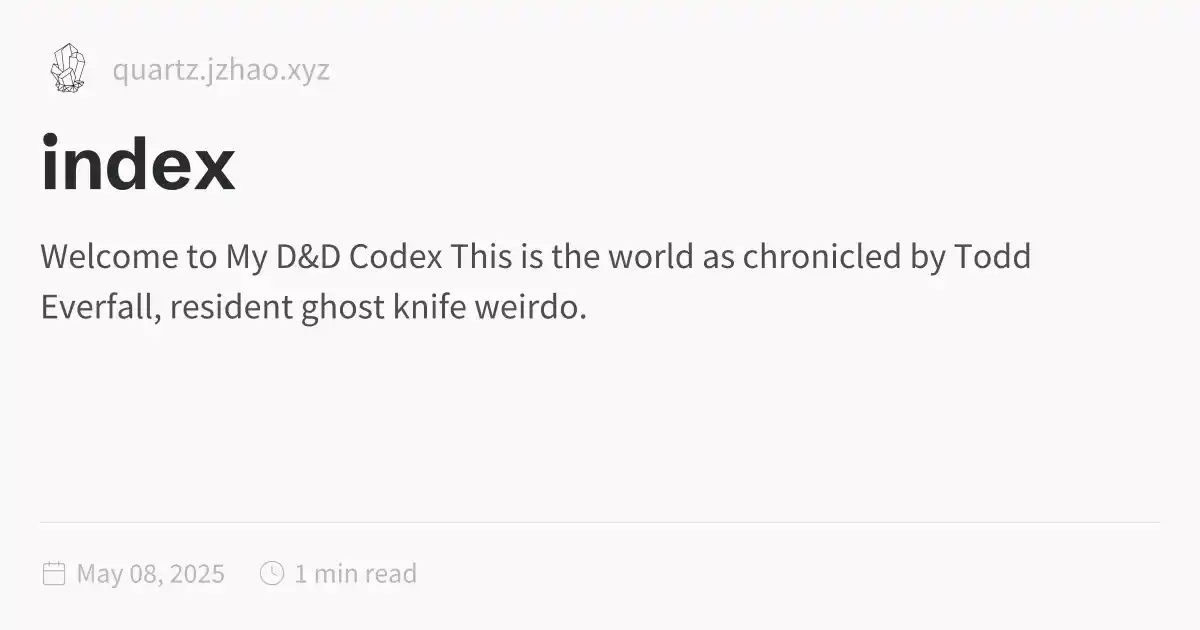
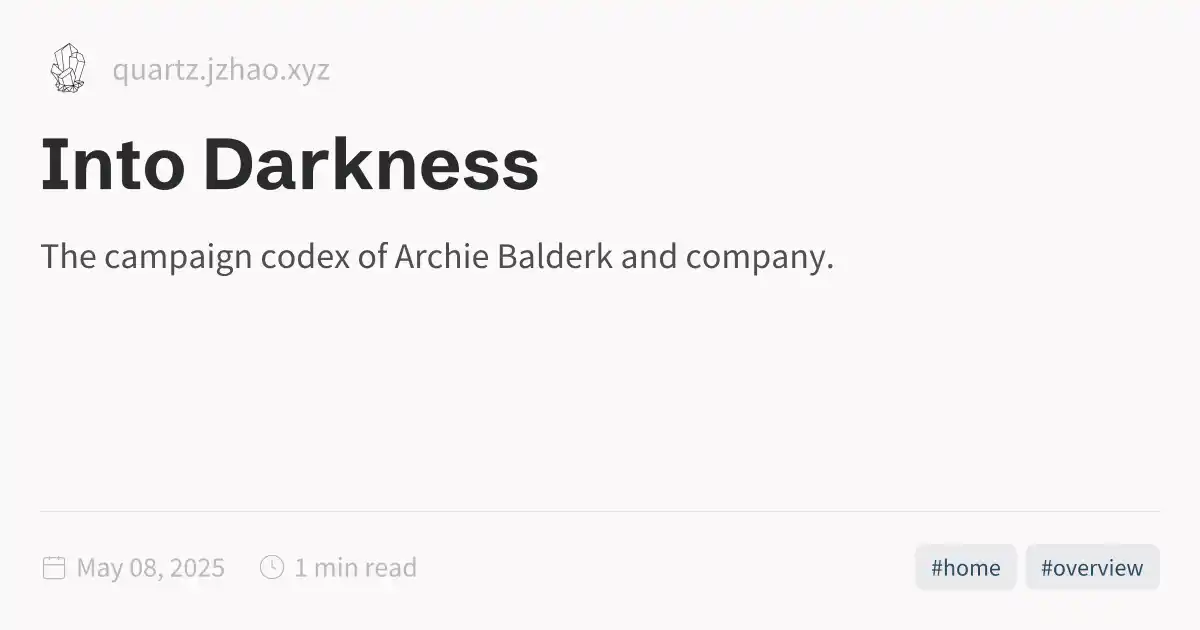
Enable custom CSS theme

diff --git a/public/index.html b/public/index.html
@@ -1,5 +1,5 @@
 <!DOCTYPE html>
-<html lang="en"><head><title>index</title><meta charset="utf-8"/><link rel="preconnect" href="https://fonts.googleapis.com"/><link rel="preconnect" href="https://fonts.gstatic.com"/><link rel="stylesheet" href="https://fonts.googleapis.com/css2?family=Schibsted Grotesk:wght@400;700&amp;family=Source Sans Pro:ital,wght@0,400;0,600;1,400;1,600&amp;family=IBM Plex Mono:wght@400;600&amp;display=swap"/><link rel="preconnect" href="https://cdnjs.cloudflare.com" crossorigin="anonymous"/><meta name="viewport" content="width=device-width, initial-scale=1.0"/><meta name="og:site_name" content="Quartz 4"/><meta property="og:title" content="index"/><meta property="og:type" content="website"/><meta name="twitter:card" content="summary_large_image"/><meta name="twitter:title" content="index"/><meta name="twitter:description" content="Welcome to My D&amp;D Codex This is the world as chronicled by Todd Everfall, resident ghost knife weirdo."/><meta property="og:description" content="Welcome to My D&amp;D Codex This is the world as chronicled by Todd Everfall, resident ghost knife weirdo."/><meta property="og:image:alt" content="Welcome to My D&amp;D Codex This is the world as chronicled by Todd Everfall, resident ghost knife weirdo."/><meta property="twitter:domain" content="quartz.jzhao.xyz"/><meta property="og:url" content="https://quartz.jzhao.xyz/index"/><meta property="twitter:url" content="https://quartz.jzhao.xyz/index"/><link rel="icon" href="./static/icon.png"/><meta name="description" content="Welcome to My D&amp;D Codex This is the world as chronicled by Todd Everfall, resident ghost knife weirdo."/><meta name="generator" content="Quartz"/><link href="./index.css" rel="stylesheet" type="text/css" spa-preserve/><style>.expand-button {
+<html lang="en"><head><title>Into Darkness</title><meta charset="utf-8"/><link rel="preconnect" href="https://fonts.googleapis.com"/><link rel="preconnect" href="https://fonts.gstatic.com"/><link rel="stylesheet" href="https://fonts.googleapis.com/css2?family=Schibsted Grotesk:wght@400;700&amp;family=Source Sans Pro:ital,wght@0,400;0,600;1,400;1,600&amp;family=IBM Plex Mono:wght@400;600&amp;display=swap"/><link rel="preconnect" href="https://cdnjs.cloudflare.com" crossorigin="anonymous"/><meta name="viewport" content="width=device-width, initial-scale=1.0"/><meta name="og:site_name" content="Quartz 4"/><meta property="og:title" content="Into Darkness"/><meta property="og:type" content="website"/><meta name="twitter:card" content="summary_large_image"/><meta name="twitter:title" content="Into Darkness"/><meta name="twitter:description" content="The campaign codex of Archie Balderk and company."/><meta property="og:description" content="The campaign codex of Archie Balderk and company."/><meta property="og:image:alt" content="The campaign codex of Archie Balderk and company."/><meta property="twitter:domain" content="quartz.jzhao.xyz"/><meta property="og:url" content="https://quartz.jzhao.xyz/index"/><meta property="twitter:url" content="https://quartz.jzhao.xyz/index"/><link rel="icon" href="./static/icon.png"/><meta name="description" content="The campaign codex of Archie Balderk and company."/><meta name="generator" content="Quartz"/><link href="./index.css" rel="stylesheet" type="text/css" spa-preserve/><style>.expand-button {
   position: absolute;
   display: flex;
   float: right;
@@ -116,8 +116,23 @@ pre:hover > .expand-button {
   padding: 0 12px;
   font-size: 14px;
 }
[1 lines of base64/hex data omitted]
-<p>This is the world as chronicled by Todd Everfall, resident ghost knife weirdo.</p></article><hr/><div class="page-footer"></div></div><div class="right sidebar"><div class="graph"><h3>Graph View</h3><div class="graph-outer"><div class="graph-container" data-cfg="{&quot;drag&quot;:true,&quot;zoom&quot;:true,&quot;depth&quot;:1,&quot;scale&quot;:1.1,&quot;repelForce&quot;:0.5,&quot;centerForce&quot;:0.3,&quot;linkDistance&quot;:30,&quot;fontSize&quot;:0.6,&quot;opacityScale&quot;:1,&quot;showTags&quot;:true,&quot;removeTags&quot;:[],&quot;focusOnHover&quot;:false,&quot;enableRadial&quot;:false}"></div><button class="global-graph-icon" aria-label="Global Graph"><svg version="1.1" xmlns="http://www.w3.org/2000/svg" xmlns:xlink="http://www.w3.org/1999/xlink" x="0px" y="0px" viewBox="0 0 55 55" fill="currentColor" xml:space="preserve"><path d="M49,0c-3.309,0-6,2.691-6,6c0,1.035,0.263,2.009,0.726,2.86l-9.829,9.829C32.542,17.634,30.846,17,29,17
[1 lines of base64/hex data omitted]
+<blockquote>
+<p><em>“The gods are silent. The devils are not.”</em></p>
+</blockquote>
+<p>Welcome to the living codex of our campaign. This site is a growing archive of the realms we’ve explored, the horrors we’ve survived, and the ancient powers that stir beneath our feet.</p>
+<hr/>
+<h2 id="-explore-the-codex">📖 Explore the Codex<a role="anchor" aria-hidden="true" tabindex="-1" data-no-popover="true" href="#-explore-the-codex" class="internal"><svg width="18" height="18" viewBox="0 0 24 24" fill="none" stroke="currentColor" stroke-width="2" stroke-linecap="round" stroke-linejoin="round"><path d="M10 13a5 5 0 0 0 7.54.54l3-3a5 5 0 0 0-7.07-7.07l-1.72 1.71"></path><path d="M14 11a5 5 0 0 0-7.54-.54l-3 3a5 5 0 0 0 7.07 7.07l1.71-1.71"></path></svg></a></h2>
+<ul>
+<li><a href="././lore/" class="internal alias" data-slug="lore/index">🧠 Lore</a></li>
+<li><a href="././factions/" class="internal alias" data-slug="factions/index">⚔ Factions</a></li>
+<li><a href="././locations/" class="internal alias" data-slug="locations/index">📍 Locations</a></li>
+<li><a href="././deities/" class="internal alias" data-slug="deities/index">⛪ Deities</a></li>
+<li><a href="././characters/" class="internal alias" data-slug="characters/index">🧰 characters</a></li>
+<li><a href="././limericks/" class="internal alias" data-slug="limericks/index">🎭 Bardic Limericks</a></li>
+<li><a href="././session-logs/" class="internal alias" data-slug="session-logs/index">📜 Session Logs</a></li>
+<li><a href="././meta/" class="internal alias" data-slug="meta/index"> Reference</a></li>
+</ul></article><hr/><div class="page-footer"></div></div><div class="right sidebar"><div class="graph"><h3>Graph View</h3><div class="graph-outer"><div class="graph-container" data-cfg="{&quot;drag&quot;:true,&quot;zoom&quot;:true,&quot;depth&quot;:1,&quot;scale&quot;:1.1,&quot;repelForce&quot;:0.5,&quot;centerForce&quot;:0.3,&quot;linkDistance&quot;:30,&quot;fontSize&quot;:0.6,&quot;opacityScale&quot;:1,&quot;showTags&quot;:true,&quot;removeTags&quot;:[],&quot;focusOnHover&quot;:false,&quot;enableRadial&quot;:false}"></div><button class="global-graph-icon" aria-label="Global Graph"><svg version="1.1" xmlns="http://www.w3.org/2000/svg" xmlns:xlink="http://www.w3.org/1999/xlink" x="0px" y="0px" viewBox="0 0 55 55" fill="currentColor" xml:space="preserve"><path d="M49,0c-3.309,0-6,2.691-6,6c0,1.035,0.263,2.009,0.726,2.86l-9.829,9.829C32.542,17.634,30.846,17,29,17
                 s-3.542,0.634-4.898,1.688l-7.669-7.669C16.785,10.424,17,9.74,17,9c0-2.206-1.794-4-4-4S9,6.794,9,9s1.794,4,4,4
                 c0.74,0,1.424-0.215,2.019-0.567l7.669,7.669C21.634,21.458,21,23.154,21,25s0.634,3.542,1.688,4.897L10.024,42.562
                 C8.958,41.595,7.549,41,6,41c-3.309,0-6,2.691-6,6s2.691,6,6,6s6-2.691,6-6c0-1.035-0.263-2.009-0.726-2.86l12.829-12.829
@@ -127,6 +142,6 @@ pre:hover > .expand-button {
                 C46.042,11.405,47.451,12,49,12c3.309,0,6-2.691,6-6S52.309,0,49,0z M11,9c0-1.103,0.897-2,2-2s2,0.897,2,2s-0.897,2-2,2
                 S11,10.103,11,9z M6,51c-2.206,0-4-1.794-4-4s1.794-4,4-4s4,1.794,4,4S8.206,51,6,51z M33,49c0,2.206-1.794,4-4,4s-4-1.794-4-4
                 s1.794-4,4-4S33,46.794,33,49z M29,31c-3.309,0-6-2.691-6-6s2.691-6,6-6s6,2.691,6,6S32.309,31,29,31z M47,41c0,1.103-0.897,2-2,2
-                s-2-0.897-2-2s0.897-2,2-2S47,39.897,47,41z M49,10c-2.206,0-4-1.794-4-4s1.794-4,4-4s4,1.794,4,4S51.206,10,49,10z"></path></svg></button></div><div class="global-graph-outer"><div class="global-graph-container" data-cfg="{&quot;drag&quot;:true,&quot;zoom&quot;:true,&quot;depth&quot;:-1,&quot;scale&quot;:0.9,&quot;repelForce&quot;:0.5,&quot;centerForce&quot;:0.2,&quot;linkDistance&quot;:30,&quot;fontSize&quot;:0.6,&quot;opacityScale&quot;:1,&quot;showTags&quot;:true,&quot;removeTags&quot;:[],&quot;focusOnHover&quot;:true,&quot;enableRadial&quot;:true}"></div></div></div></div><footer class><p>Created with <a href="https://quartz.jzhao.xyz/">Quartz v4.5.0</a> © 2025</p><ul><li><a href="https://github.com/jackyzha0/quartz">GitHub</a></li><li><a href="https://discord.gg/cRFFHYye7t">Discord Community</a></li></ul></footer></div></div></body><script type="application/javascript">function n(){let t=this.parentElement;t.classList.toggle("is-collapsed");let e=t.getElementsByClassName("callout-content")[0];if(!e)return;let l=t.classList.contains("is-collapsed");e.style.gridTemplateRows=l?"0fr":"1fr"}function c(){let t=document.getElementsByClassName("callout is-collapsible");for(let e of t){let l=e.getElementsByClassName("callout-title")[0],s=e.getElementsByClassName("callout-content")[0];if(!l||!s)continue;l.addEventListener("click",n),window.addCleanup(()=>l.removeEventListener("click",n));let o=e.classList.contains("is-collapsed");s.style.gridTemplateRows=o?"0fr":"1fr"}}document.addEventListener("nav",c);
+                s-2-0.897-2-2s0.897-2,2-2S47,39.897,47,41z M49,10c-2.206,0-4-1.794-4-4s1.794-4,4-4s4,1.794,4,4S51.206,10,49,10z"></path></svg></button></div><div class="global-graph-outer"><div class="global-graph-container" data-cfg="{&quot;drag&quot;:true,&quot;zoom&quot;:true,&quot;depth&quot;:-1,&quot;scale&quot;:0.9,&quot;repelForce&quot;:0.5,&quot;centerForce&quot;:0.2,&quot;linkDistance&quot;:30,&quot;fontSize&quot;:0.6,&quot;opacityScale&quot;:1,&quot;showTags&quot;:true,&quot;removeTags&quot;:[],&quot;focusOnHover&quot;:true,&quot;enableRadial&quot;:true}"></div></div></div><div class="toc desktop-only"><button type="button" class="toc-header" aria-controls="toc-content" aria-expanded="true"><h3>Table of Contents</h3><svg xmlns="http://www.w3.org/2000/svg" width="24" height="24" viewBox="0 0 24 24" fill="none" stroke="currentColor" stroke-width="2" stroke-linecap="round" stroke-linejoin="round" class="fold"><polyline points="6 9 12 15 18 9"></polyline></svg></button><ul class="toc-content overflow" id="list-1"><li class="depth-0"><a href="#into-darkness" data-for="into-darkness">Into Darkness</a></li><li class="depth-1"><a href="#-explore-the-codex" data-for="-explore-the-codex">📖 Explore the Codex</a></li><li class="overflow-end"></li></ul></div></div><footer class><p>Created with <a href="https://quartz.jzhao.xyz/">Quartz v4.5.0</a> © 2025</p><ul><li><a href="https://github.com/jackyzha0/quartz">GitHub</a></li><li><a href="https://discord.gg/cRFFHYye7t">Discord Community</a></li></ul></footer></div></div></body><script type="application/javascript">function n(){let t=this.parentElement;t.classList.toggle("is-collapsed");let e=t.getElementsByClassName("callout-content")[0];if(!e)return;let l=t.classList.contains("is-collapsed");e.style.gridTemplateRows=l?"0fr":"1fr"}function c(){let t=document.getElementsByClassName("callout is-collapsible");for(let e of t){let l=e.getElementsByClassName("callout-title")[0],s=e.getElementsByClassName("callout-content")[0];if(!l||!s)continue;l.addEventListener("click",n),window.addCleanup(()=>l.removeEventListener("click",n));let o=e.classList.contains("is-collapsed");s.style.gridTemplateRows=o?"0fr":"1fr"}}document.addEventListener("nav",c);
 </script><script type="module">function f(i,e){if(!i)return;function r(o){o.target===this&&(o.preventDefault(),o.stopPropagation(),e())}function t(o){o.key.startsWith("Esc")&&(o.preventDefault(),e())}i?.addEventListener("click",r),window.addCleanup(()=>i?.removeEventListener("click",r)),document.addEventListener("keydown",t),window.addCleanup(()=>document.removeEventListener("keydown",t))}function y(i){for(;i.firstChild;)i.removeChild(i.firstChild)}var h=class{constructor(e,r){this.container=e;this.content=r;this.setupEventListeners(),this.setupNavigationControls(),this.resetTransform()}isDragging=!1;startPan={x:0,y:0};currentPan={x:0,y:0};scale=1;MIN_SCALE=.5;MAX_SCALE=3;cleanups=[];setupEventListeners(){let e=this.onMouseDown.bind(this),r=this.onMouseMove.bind(this),t=this.onMouseUp.bind(this),o=this.resetTransform.bind(this);this.container.addEventListener("mousedown",e),document.addEventListener("mousemove",r),document.addEventListener("mouseup",t),window.addEventListener("resize",o),this.cleanups.push(()=>this.container.removeEventListener("mousedown",e),()=>document.removeEventListener("mousemove",r),()=>document.removeEventListener("mouseup",t),()=>window.removeEventListener("resize",o))}cleanup(){for(let e of this.cleanups)e()}setupNavigationControls(){let e=document.createElement("div");e.className="mermaid-controls";let r=this.createButton("+",()=>this.zoom(.1)),t=this.createButton("-",()=>this.zoom(-.1)),o=this.createButton("Reset",()=>this.resetTransform());e.appendChild(t),e.appendChild(o),e.appendChild(r),this.container.appendChild(e)}createButton(e,r){let t=document.createElement("button");return t.textContent=e,t.className="mermaid-control-button",t.addEventListener("click",r),window.addCleanup(()=>t.removeEventListener("click",r)),t}onMouseDown(e){e.button===0&&(this.isDragging=!0,this.startPan={x:e.clientX-this.currentPan.x,y:e.clientY-this.currentPan.y},this.container.style.cursor="grabbing")}onMouseMove(e){this.isDragging&&(e.preventDefault(),this.currentPan={x:e.clientX-this.startPan.x,y:e.clientY-this.startPan.y},this.updateTransform())}onMouseUp(){this.isDragging=!1,this.container.style.cursor="grab"}zoom(e){let r=Math.min(Math.max(this.scale+e,this.MIN_SCALE),this.MAX_SCALE),t=this.content.getBoundingClientRect(),o=t.width/2,n=t.height/2,c=r-this.scale;this.currentPan.x-=o*c,this.currentPan.y-=n*c,this.scale=r,this.updateTransform()}updateTransform(){this.content.style.transform=`translate(${this.currentPan.x}px, ${this.currentPan.y}px) scale(${this.scale})`}resetTransform(){this.scale=1;let e=this.content.querySelector("svg");this.currentPan={x:e.getBoundingClientRect().width/2,y:e.getBoundingClientRect().height/2},this.updateTransform()}},C=["--secondary","--tertiary","--gray","--light","--lightgray","--highlight","--dark","--darkgray","--codeFont"],E;document.addEventListener("nav",async()=>{let e=document.querySelector(".center").querySelectorAll("code.mermaid");if(e.length===0)return;E||=await import("https://cdnjs.cloudflare.com/ajax/libs/mermaid/11.4.0/mermaid.esm.min.mjs");let r=E.default,t=new WeakMap;for(let n of e)t.set(n,n.innerText);async function o(){for(let s of e){s.removeAttribute("data-processed");let a=t.get(s);a&&(s.innerHTML=a)}let n=C.reduce((s,a)=>(s[a]=window.getComputedStyle(document.documentElement).getPropertyValue(a),s),{}),c=document.documentElement.getAttribute("saved-theme")==="dark";r.initialize({startOnLoad:!1,securityLevel:"loose",theme:c?"dark":"base",themeVariables:{fontFamily:n["--codeFont"],primaryColor:n["--light"],primaryTextColor:n["--darkgray"],primaryBorderColor:n["--tertiary"],lineColor:n["--darkgray"],secondaryColor:n["--secondary"],tertiaryColor:n["--tertiary"],clusterBkg:n["--light"],edgeLabelBackground:n["--highlight"]}}),await r.run({nodes:e})}await o(),document.addEventListener("themechange",o),window.addCleanup(()=>document.removeEventListener("themechange",o));for(let n=0;n<e.length;n++){let v=function(){let g=l.querySelector("#mermaid-space"),m=l.querySelector(".mermaid-content");if(!m)return;y(m);let w=c.querySelector("svg").cloneNode(!0);m.appendChild(w),l.classList.add("active"),g.style.cursor="grab",u=new h(g,m)},M=function(){l.classList.remove("active"),u?.cleanup(),u=null},c=e[n],s=c.parentElement,a=s.querySelector(".clipboard-button"),d=s.querySelector(".expand-button"),p=window.getComputedStyle(a),L=a.offsetWidth+parseFloat(p.marginLeft||"0")+parseFloat(p.marginRight||"0");d.style.right=`calc(${L}px + 0.3rem)`,s.prepend(d);let l=s.querySelector("#mermaid-container");if(!l)return;let u=null;d.addEventListener("click",v),f(l,M),window.addCleanup(()=>{u?.cleanup(),d.removeEventListener("click",v)})}});
 </script><script src="https://cdn.jsdelivr.net/npm/katex@0.16.11/dist/contrib/copy-tex.min.js" type="application/javascript"></script><script src="./postscript.js" type="module"></script></html>

diff --git a/public/tags/index.html b/public/tags/index.html
@@ -116,6 +116,6 @@ pre:hover > .expand-button {
   padding: 0 12px;
   font-size: 14px;
 }
[2 lines of base64/hex data omitted]
 </script><script type="module">function f(i,e){if(!i)return;function r(o){o.target===this&&(o.preventDefault(),o.stopPropagation(),e())}function t(o){o.key.startsWith("Esc")&&(o.preventDefault(),e())}i?.addEventListener("click",r),window.addCleanup(()=>i?.removeEventListener("click",r)),document.addEventListener("keydown",t),window.addCleanup(()=>document.removeEventListener("keydown",t))}function y(i){for(;i.firstChild;)i.removeChild(i.firstChild)}var h=class{constructor(e,r){this.container=e;this.content=r;this.setupEventListeners(),this.setupNavigationControls(),this.resetTransform()}isDragging=!1;startPan={x:0,y:0};currentPan={x:0,y:0};scale=1;MIN_SCALE=.5;MAX_SCALE=3;cleanups=[];setupEventListeners(){let e=this.onMouseDown.bind(this),r=this.onMouseMove.bind(this),t=this.onMouseUp.bind(this),o=this.resetTransform.bind(this);this.container.addEventListener("mousedown",e),document.addEventListener("mousemove",r),document.addEventListener("mouseup",t),window.addEventListener("resize",o),this.cleanups.push(()=>this.container.removeEventListener("mousedown",e),()=>document.removeEventListener("mousemove",r),()=>document.removeEventListener("mouseup",t),()=>window.removeEventListener("resize",o))}cleanup(){for(let e of this.cleanups)e()}setupNavigationControls(){let e=document.createElement("div");e.className="mermaid-controls";let r=this.createButton("+",()=>this.zoom(.1)),t=this.createButton("-",()=>this.zoom(-.1)),o=this.createButton("Reset",()=>this.resetTransform());e.appendChild(t),e.appendChild(o),e.appendChild(r),this.container.appendChild(e)}createButton(e,r){let t=document.createElement("button");return t.textContent=e,t.className="mermaid-control-button",t.addEventListener("click",r),window.addCleanup(()=>t.removeEventListener("click",r)),t}onMouseDown(e){e.button===0&&(this.isDragging=!0,this.startPan={x:e.clientX-this.currentPan.x,y:e.clientY-this.currentPan.y},this.container.style.cursor="grabbing")}onMouseMove(e){this.isDragging&&(e.preventDefault(),this.currentPan={x:e.clientX-this.startPan.x,y:e.clientY-this.startPan.y},this.updateTransform())}onMouseUp(){this.isDragging=!1,this.container.style.cursor="grab"}zoom(e){let r=Math.min(Math.max(this.scale+e,this.MIN_SCALE),this.MAX_SCALE),t=this.content.getBoundingClientRect(),o=t.width/2,n=t.height/2,c=r-this.scale;this.currentPan.x-=o*c,this.currentPan.y-=n*c,this.scale=r,this.updateTransform()}updateTransform(){this.content.style.transform=`translate(${this.currentPan.x}px, ${this.currentPan.y}px) scale(${this.scale})`}resetTransform(){this.scale=1;let e=this.content.querySelector("svg");this.currentPan={x:e.getBoundingClientRect().width/2,y:e.getBoundingClientRect().height/2},this.updateTransform()}},C=["--secondary","--tertiary","--gray","--light","--lightgray","--highlight","--dark","--darkgray","--codeFont"],E;document.addEventListener("nav",async()=>{let e=document.querySelector(".center").querySelectorAll("code.mermaid");if(e.length===0)return;E||=await import("https://cdnjs.cloudflare.com/ajax/libs/mermaid/11.4.0/mermaid.esm.min.mjs");let r=E.default,t=new WeakMap;for(let n of e)t.set(n,n.innerText);async function o(){for(let s of e){s.removeAttribute("data-processed");let a=t.get(s);a&&(s.innerHTML=a)}let n=C.reduce((s,a)=>(s[a]=window.getComputedStyle(document.documentElement).getPropertyValue(a),s),{}),c=document.documentElement.getAttribute("saved-theme")==="dark";r.initialize({startOnLoad:!1,securityLevel:"loose",theme:c?"dark":"base",themeVariables:{fontFamily:n["--codeFont"],primaryColor:n["--light"],primaryTextColor:n["--darkgray"],primaryBorderColor:n["--tertiary"],lineColor:n["--darkgray"],secondaryColor:n["--secondary"],tertiaryColor:n["--tertiary"],clusterBkg:n["--light"],edgeLabelBackground:n["--highlight"]}}),await r.run({nodes:e})}await o(),document.addEventListener("themechange",o),window.addCleanup(()=>document.removeEventListener("themechange",o));for(let n=0;n<e.length;n++){let v=function(){let g=l.querySelector("#mermaid-space"),m=l.querySelector(".mermaid-content");if(!m)return;y(m);let w=c.querySelector("svg").cloneNode(!0);m.appendChild(w),l.classList.add("active"),g.style.cursor="grab",u=new h(g,m)},M=function(){l.classList.remove("active"),u?.cleanup(),u=null},c=e[n],s=c.parentElement,a=s.querySelector(".clipboard-button"),d=s.querySelector(".expand-button"),p=window.getComputedStyle(a),L=a.offsetWidth+parseFloat(p.marginLeft||"0")+parseFloat(p.marginRight||"0");d.style.right=`calc(${L}px + 0.3rem)`,s.prepend(d);let l=s.querySelector("#mermaid-container");if(!l)return;let u=null;d.addEventListener("click",v),f(l,M),window.addCleanup(()=>{u?.cleanup(),d.removeEventListener("click",v)})}});
 </script><script src="https://cdn.jsdelivr.net/npm/katex@0.16.11/dist/contrib/copy-tex.min.js" type="application/javascript"></script><script src="../postscript.js" type="module"></script></html>

diff --git a/static/into-darkness-theme.css b/static/into-darkness-theme.css
@@ -1,0 +1,86 @@
+
+/* === INTO DARKNESS - Custom Blue Fantasy Theme === */
+
+:root {
+  --background: #0a0e1a;
+  --primary: #8be3ff;
+  --accent: #52bfff;
+  --text: #dce8f5;
+  --muted: #7a91b2;
+  --link: #84d0ff;
+  --link-hover: #a8eaff;
+}
+
+body {
+  background-color: var(--background);
+  color: var(--text);
+  font-family: 'Merriweather', serif;
+  line-height: 1.7;
+}
+
+a {
+  color: var(--link);
+  text-decoration: none;
+  transition: color 0.2s;
+}
+
+a:hover {
+  color: var(--link-hover);
+}
+
+h1, h2, h3, h4 {
+  color: var(--primary);
+  text-shadow: 0 0 8px rgba(138, 233, 255, 0.4);
+}
+
+nav, .sidebar {
+  background-color: #101828;
+  border: 1px solid #2c3e50;
+  padding: 1rem;
+  box-shadow: 0 0 10px rgba(138, 233, 255, 0.2);
+}
+
+nav a, .sidebar a {
+  color: var(--text);
+  font-weight: bold;
+  text-transform: uppercase;
+  letter-spacing: 1px;
+}
+
+nav a:hover, .sidebar a:hover {
+  color: var(--accent);
+}
+
+blockquote {
+  border-left: 4px solid var(--accent);
+  padding-left: 1rem;
+  color: var(--muted);
+  background-color: rgba(255, 255, 255, 0.05);
+}
+
+code, pre {
+  background-color: #1b2435;
+  color: #8be3ff;
+  padding: 0.2rem 0.5rem;
+  border-radius: 4px;
+}
+
+/* Layout enhancements */
+.content {
+  padding: 2rem;
+  max-width: 900px;
+  margin: auto;
+}
+
+.quick-reference, .library-section {
+  background-color: #121a26;
+  border: 1px solid #2c3e50;
+  padding: 1rem;
+  margin: 1rem 0;
+  box-shadow: 0 0 8px rgba(82, 191, 255, 0.3);
+}
+
+.quick-reference h3, .library-section h3 {
+  color: var(--accent);
+  margin-top: 0;
+}
